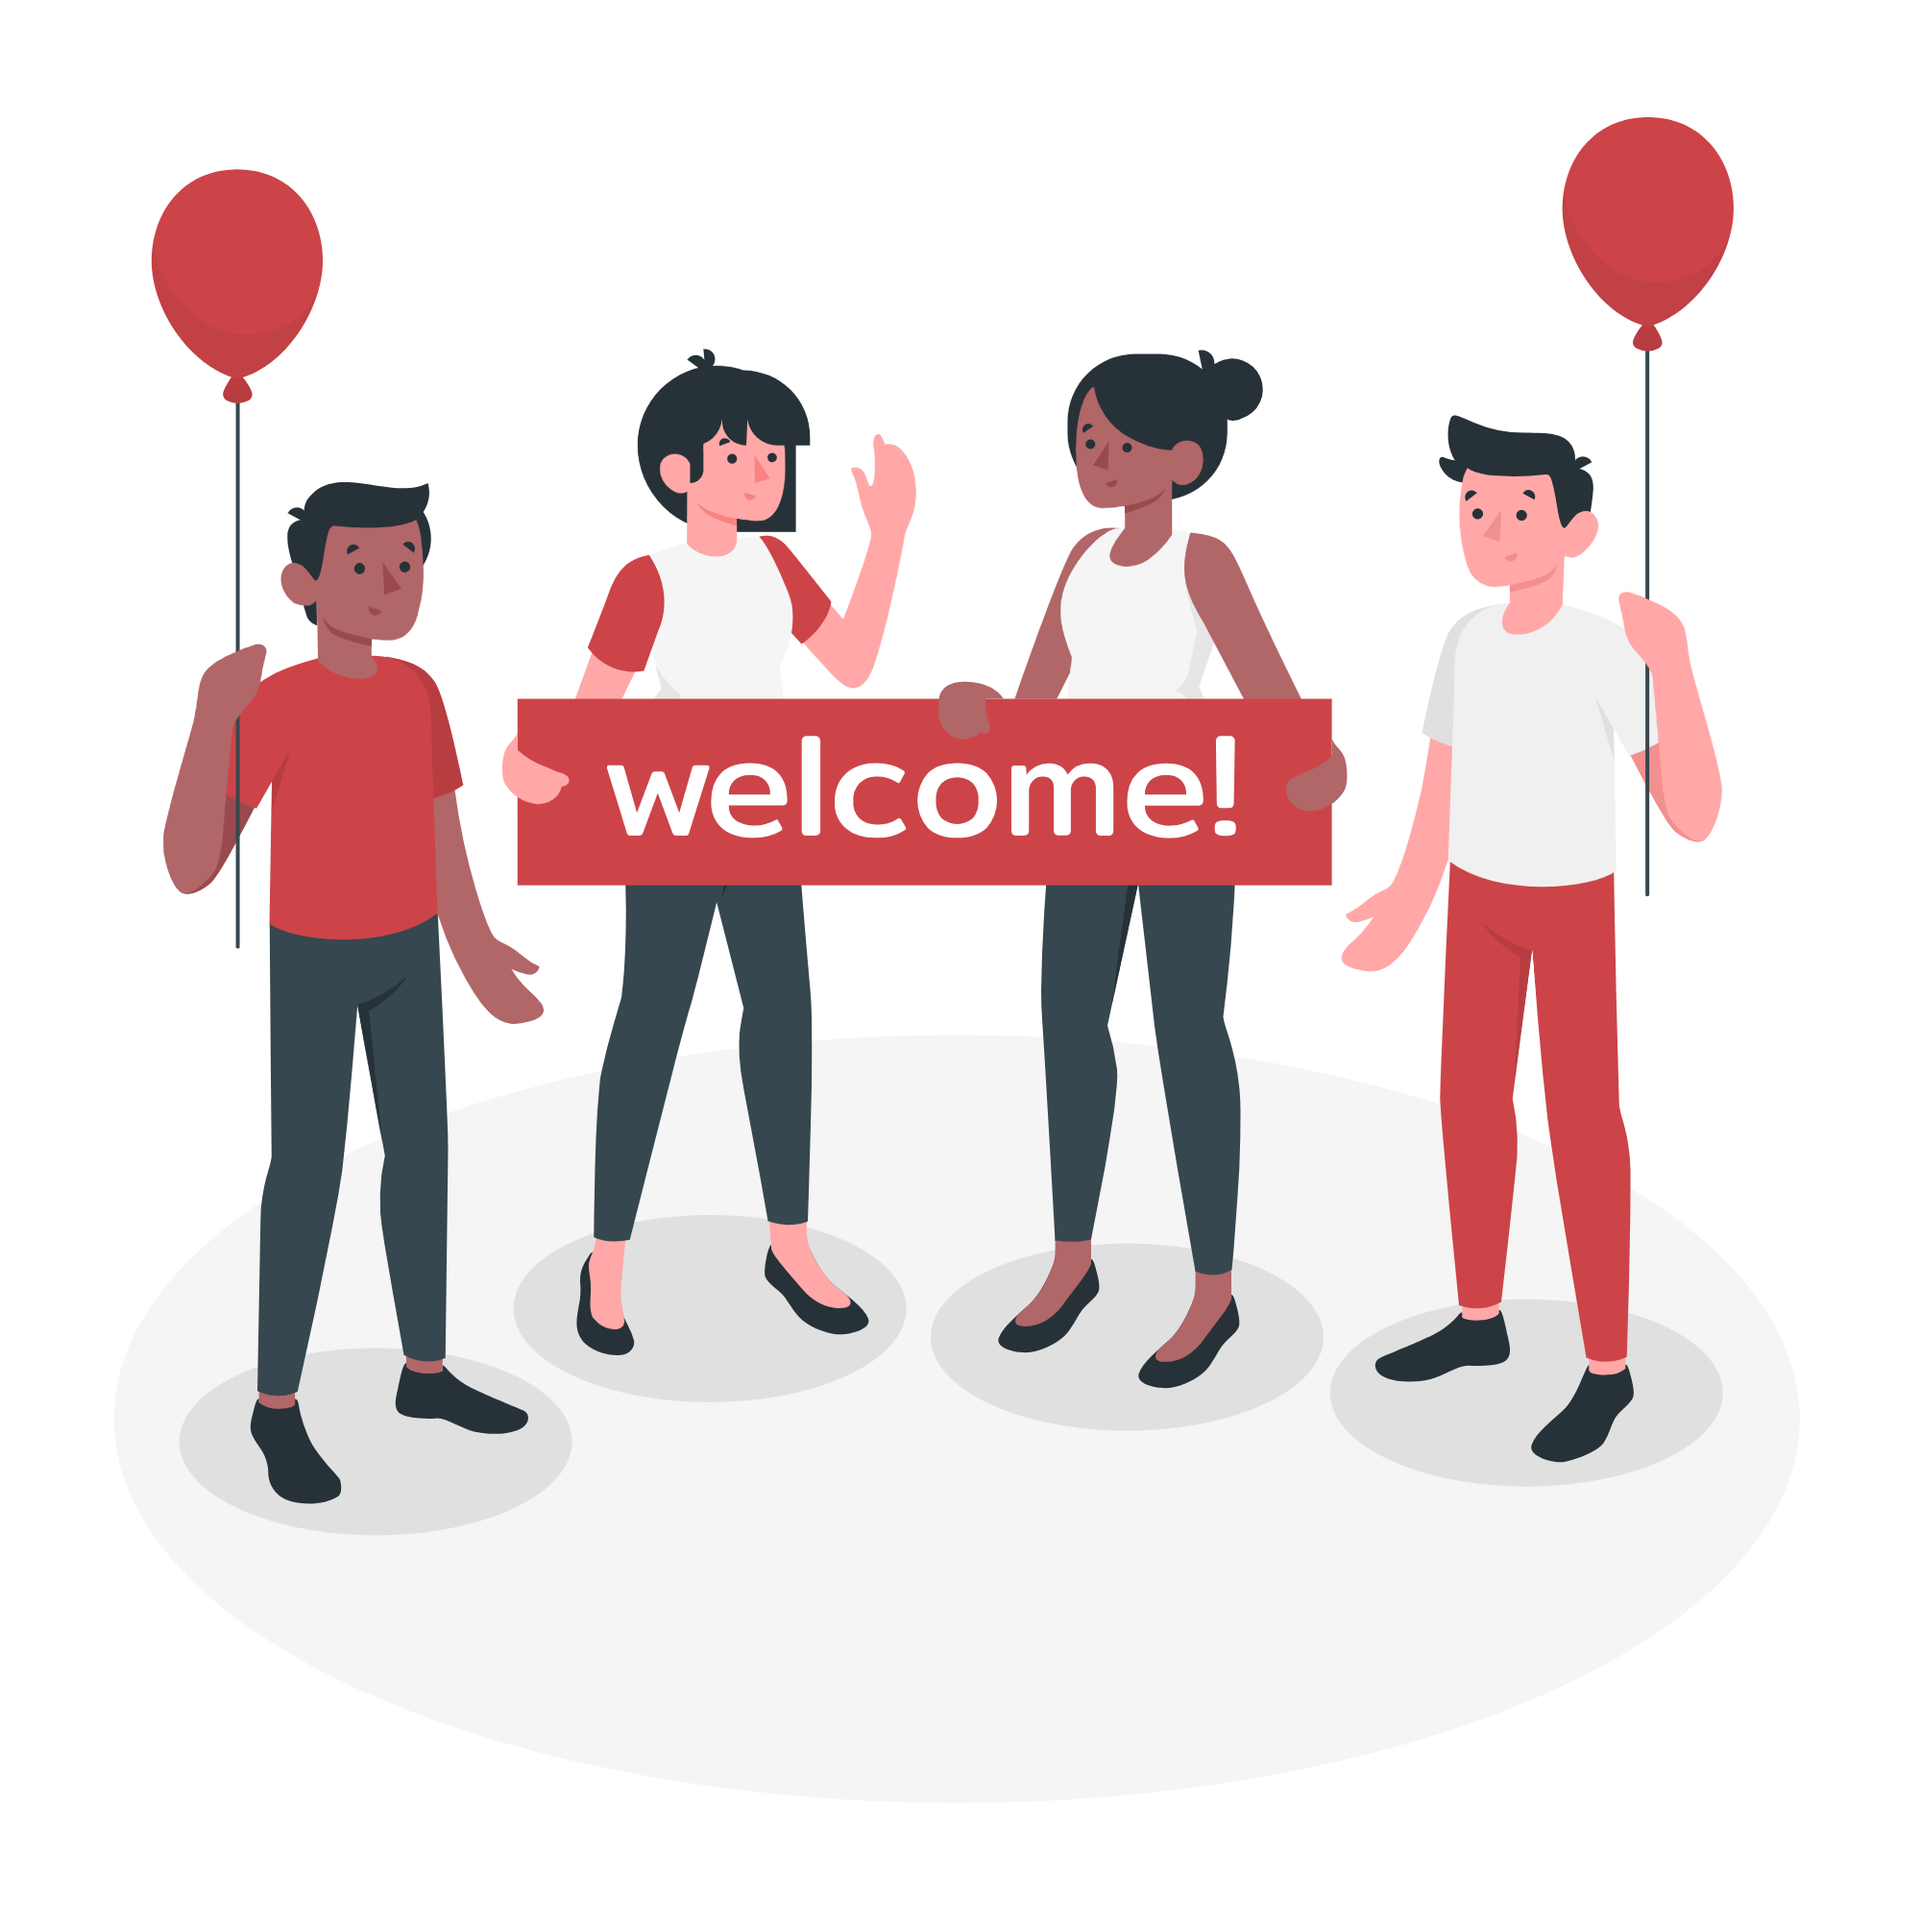
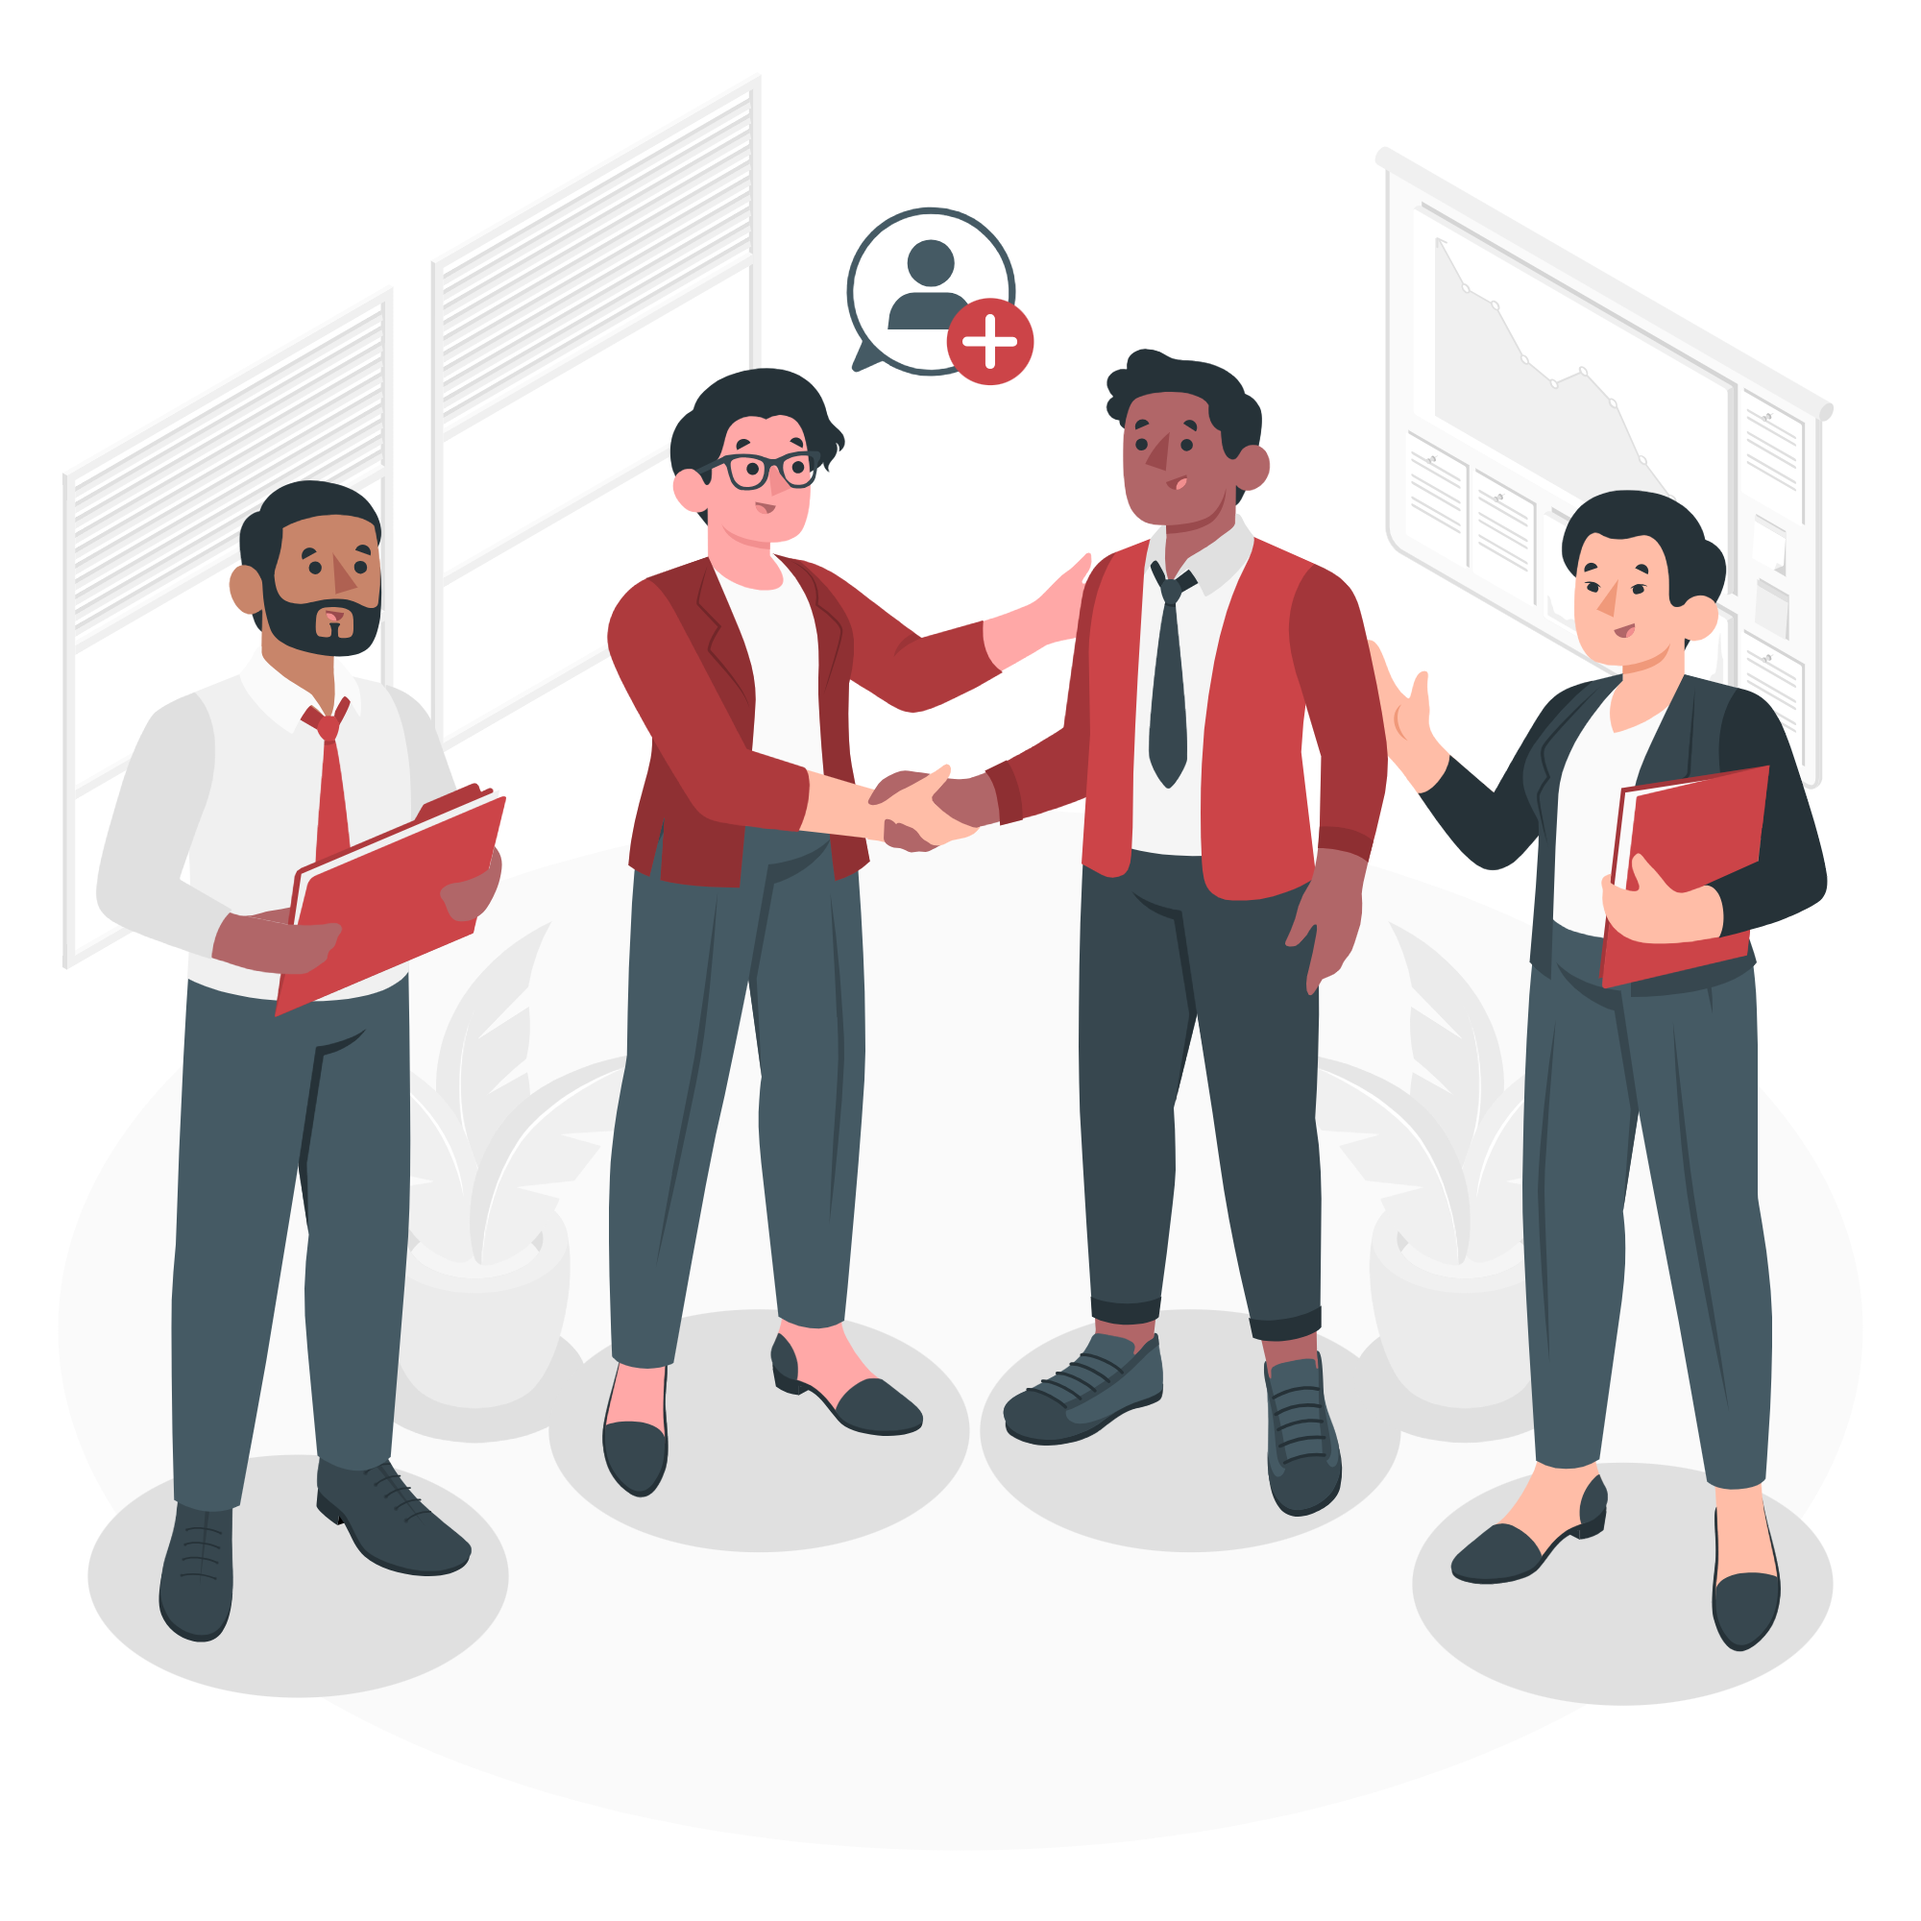
Tuong 15/6 lan 1

diff --git a/index.html b/index.html
@@ -51,28 +51,19 @@
       <nav id="navmenu" class="navmenu">
         <ul>
           <li><a href="#hero" class="active">Home<br></a></li>
-          <li><a href="#about">About</a></li>
-          <li><a href="#services">Services</a></li> 
-          <li><a href="#portfolio">Portfolio</a></li>
-          <li><a href="#team">Team</a></li>
-          <li><a href="blog.html">Blog</a></li>
-          <li class="dropdown"><a href="#"><span>Dropdown</span> <i class="bi bi-chevron-down toggle-dropdown"></i></a>
+          <li><a href="#about">About Us</a></li>
+          <li class="dropdown"><a href="#"><span>Services</span> <i class="bi bi-chevron-down toggle-dropdown"></i></a>
             <ul>
-              <li><a href="#">Dropdown 1</a></li>
-              <li class="dropdown"><a href="#"><span>Deep Dropdown</span> <i class="bi bi-chevron-down toggle-dropdown"></i></a>
-                <ul>
-                  <li><a href="#">Deep Dropdown 1</a></li>
-                  <li><a href="#">Deep Dropdown 2</a></li>
-                  <li><a href="#">Deep Dropdown 3</a></li>
-                  <li><a href="#">Deep Dropdown 4</a></li>
-                  <li><a href="#">Deep Dropdown 5</a></li>
-                </ul>
-              </li>
-              <li><a href="#">Dropdown 2</a></li>
-              <li><a href="#">Dropdown 3</a></li>
-              <li><a href="#">Dropdown 4</a></li>
+              <li><i class="bi bi-graph-up-arrow icon"></i><a href="#"></i>Data Analysis</a></li>
+              <li><i class="bi bi-pie-chart icon"></i><a href="#"></i>Data Visualization</a></li>
+              <li><i class="bi bi-search icon"></i><a href="#"></i>Predictive Analysis</a></li>
+              <li><i class="bi bi-database-down icon"></i><a href="#"></i>Data Integration</a></li>
+              <li><i class="bi bi-shield-check icon"></i><a href="#"></i>Data Security</a></li>
+              <li><i class="bi bi-card-checklist icon"></i><a href="#"></i>Other Services</a></li>
             </ul>
           </li>
+          <li><a href="#team">Why Choose Us</a></li>
+          <li><a href="blog.html">Blog</a></li>
           <li><a href="#contact">Contact</a></li>
         </ul>
         <i class="mobile-nav-toggle d-xl-none bi bi-list"></i>
@@ -123,7 +114,7 @@
 
       <!-- Cột phải: Ảnh to lệch phải -->
       <div class="col-lg-6">
-        <div class="position-relative" style="height: 400px;">
+        <div class="position-relative" style="height: 400px; transform: translateX(-1.5cm);">
           <div class="value-image"><img src="/assets/img/Respect.png" alt="" /></div>
           <div class="value-image"><img src="/assets/img/Inclusiveness.png" alt="" /></div>
           <div class="value-image"><img src="/assets/img/Empathy.png" alt="" /></div>
@@ -346,6 +337,18 @@
         </div>
         </section>
 
+  <section id="map-section" class="py-5" style="background: #f9fbff;">
+    <div class="container text-center">
+      <h2 class="mb-4" style="color: #CC4448;">Our Location</h2>
+      <div id="map"></div>
+    </div>
+  </section>
+
+  <!-- Leaflet JS -->
+  <script src="https://unpkg.com/leaflet/dist/leaflet.js"></script>
+  <!-- Your custom JS file -->
+  <script src="map.js"></script>
+
    <div class="container footer-top">
   <div class="row gy-4">
     <!-- Cột 1: About -->
@@ -363,23 +366,21 @@
 
     <!-- Cột 2: Useful Links -->
     <div class="col-lg-2 col-md-3 footer-links">
-   <h4 style="color: #CC4448;">Useful Links</h4>
+   <h4 style="color: #CC4448;">EXPLORE</h4>
       <ul>
         <li><i class="bi bi-chevron-right"></i> <a href="#">Home</a></li>
-        <li><i class="bi bi-chevron-right"></i> <a href="#">About us</a></li>
-        <li><i class="bi bi-chevron-right"></i> <a href="#">Services</a></li>
-        <li><i class="bi bi-chevron-right"></i> <a href="#">Terms of service</a></li>
+        <li><i class="bi bi-chevron-right"></i> <a href="#">About Us</a></li>
+        <li><i class="bi bi-chevron-right"></i> <a href="#">Why Choose Us</a></li>
       </ul>
     </div>
 
     <!-- Cột 3: Our Services -->
     <div class="col-lg-2 col-md-3 footer-links">
-     <h4 style="color: #CC4448;">Our Services</h4>
+    <h4 style="visibility: hidden;">EXPLORE</h4>
       <ul>
-        <li><i class="bi bi-chevron-right"></i> <a href="#">Web Design</a></li>
-        <li><i class="bi bi-chevron-right"></i> <a href="#">Web Development</a></li>
-        <li><i class="bi bi-chevron-right"></i> <a href="#">Product Management</a></li>
-        <li><i class="bi bi-chevron-right"></i> <a href="#">Marketing</a></li>
+        <li><i class="bi bi-chevron-right"></i> <a href="#">Our Services</a></li>
+        <li><i class="bi bi-chevron-right"></i> <a href="#">Privacy Policy</a></li>
+        <li><i class="bi bi-chevron-right"></i> <a href="#">Contact Us</a></li>
       </ul>
     </div>
 

diff --git a/assets/js/main.js b/assets/js/main.js
@@ -1,11 +1,3 @@
-/**
- * Template Name: FlexStart
- * Template URL: https://bootstrapmade.com/flexstart-bootstrap-startup-template/
- * Updated: Nov 01 2024 with Bootstrap v5.3.3
- * Author: BootstrapMade.com
- * License: https://bootstrapmade.com/license/
- */
-
 (function () {
   "use strict";
 
@@ -282,3 +274,18 @@
     }
   });
 })();
+
+const myLatLng = [43.7140825,-79.6569542]; // Có thể thay bằng vị trí khác
+
+// Tạo bản đồ và đặt vị trí trung tâm
+const map = L.map('map').setView(myLatLng, 15); // Zoom cấp 15
+
+// Thêm layer OpenStreetMap
+L.tileLayer('https://{s}.tile.openstreetmap.org/{z}/{x}/{y}.png', {
+  attribution: '&copy; OpenStreetMap contributors'
+}).addTo(map);
+
+// Thêm đánh dấu và popup
+L.marker(myLatLng).addTo(map)
+  .bindPopup('<strong>7560 Airport Rd Suite 14</strong><br>Mississauga, ON')
+  .openPopup();

diff --git a/assets/css/main.css b/assets/css/main.css
@@ -288,7 +288,10 @@ h6 {
   }
 
   .navmenu .dropdown ul li {
-    min-width: 200px;
+  display: flex;
+  align-items: center;      /* căn icon và text theo chiều dọc */
+  gap: 10px;                /* khoảng cách giữa icon và text */
+  padding: 10px 20px;
   }
 
   .navmenu .dropdown ul a {
@@ -750,6 +753,7 @@ h6 {
   font-size: 13px;
 }
 
+
 /*--------------------------------------------------------------
 # Scroll Top Button
 --------------------------------------------------------------*/
@@ -900,8 +904,9 @@ section,
   padding: 80px 0 60px 0;
   display: flex;
   align-items: center;
-  background: url(../img/hero-bg.png) top center no-repeat;
+  background: url(../img/background.png) no-repeat center top;
   background-size: cover;
+  margin: 0;
 }
 
 .hero h1 {
